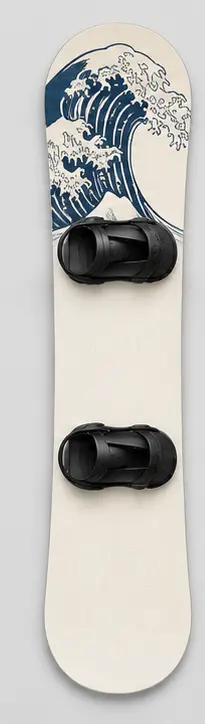
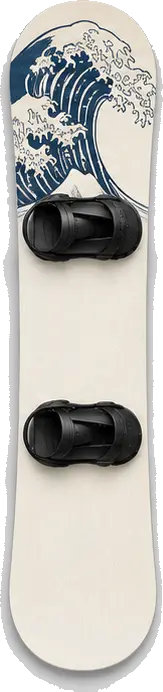
Line Series page: range boards cut out to their own shape, picked board shown in 3D
Claude-Session: https://claude.ai/code/session_01RpmJnSPrc6hx8ABvC13Bj4

diff --git a/public/concepts/line/index.html b/public/concepts/line/index.html
@@ -93,7 +93,7 @@
   .head { display: grid; grid-template-columns: 1fr 1fr; gap: 24px 64px; align-items: end; margin-bottom: clamp(40px, 5vw, 64px); }
   .head p.lede { margin: 0; color: var(--mute); font-size: 18px; max-width: 44ch; }
   @media (max-width: 860px) { .head { grid-template-columns: 1fr; } }
-  .wall { background: var(--wall); border-radius: 28px; padding: clamp(24px, 3vw, 40px) clamp(12px, 2vw, 28px) 20px; overflow-x: auto; scrollbar-width: none; transition: background .6s; }
+  .wall { background: var(--card); border-radius: 28px; padding: clamp(24px, 3vw, 40px) clamp(12px, 2vw, 28px) 20px; overflow-x: auto; scrollbar-width: none; transition: background .6s; }
   .wall::-webkit-scrollbar { display: none; }
   .rack { display: grid; grid-template-columns: repeat(10, minmax(96px, 1fr)); gap: clamp(8px, 1.2vw, 18px); min-width: 960px; }
   .board { display: grid; justify-items: center; gap: 14px; }
@@ -102,7 +102,10 @@
   .board:hover img, .board.on img { transform: translateY(-14px); filter: drop-shadow(0 18px 18px rgba(0,0,0,.18)); }
   .board.on .n { color: var(--text); } .board.on .n::before { content: ""; display: inline-block; width: 6px; height: 6px; border-radius: 50%; background: var(--run); margin-right: 8px; vertical-align: 2px; }
   .detail { display: grid; grid-template-columns: 300px 1fr; gap: clamp(24px, 5vw, 80px); align-items: center; margin-top: 12px; padding: clamp(28px, 4vw, 56px); border-radius: 28px; background: var(--card); transition: background .6s; }
-  .detail .big { background: #dcdbdb; border-radius: 20px; display: grid; place-items: center; padding: 24px 0; }
+  .detail .big { background: var(--paper2); border-radius: 20px; display: grid; place-items: center; padding: 24px 0; position: relative; overflow: hidden; min-height: min(620px, 78vh); touch-action: pan-y; transition: background .6s; }
+  .detail .big canvas { position: absolute; inset: 0; width: 100% !important; height: 100% !important; cursor: grab; }
+  .detail .big.gl img { visibility: hidden; }
+  .detail .big .hint3d { position: absolute; left: 16px; bottom: 12px; margin: 0; color: var(--mute); z-index: 2; display: none; } .detail .big.gl .hint3d { display: block; }
   .detail .big img { height: min(560px, 70vh); width: auto; display: block; transition: opacity .35s, transform .7s var(--out); }
   .detail .big img.swap { opacity: 0; transform: translateY(10px); }
   .detail h3 { margin: 10px 0 0; font: 500 clamp(32px, 4vw, 56px)/1 "Geist", sans-serif; letter-spacing: -.035em; }
@@ -204,7 +207,7 @@
       </div>
       <div class="wall rv" role="listbox" aria-label="Choose a board" id="wall"><div class="rack" id="rack"></div></div>
       <div class="detail rv" aria-live="polite">
-        <div class="big"><img id="bigImg" src="boards/21-woodblock-dragon.webp" alt="" /></div>
+        <div class="big" id="big3d"><p class="hint3d mono">Drag to turn</p><img id="bigImg" src="boards/21-woodblock-dragon.webp" alt="" /></div>
         <div>
           <p class="label mono" id="dN">No. 21</p>
           <h3 id="dH">Woodblock Dragon</h3>
@@ -342,14 +345,14 @@ window.RUN = (() => {
   const dN = document.getElementById("dN"), dH = document.getElementById("dH"), dP = document.getElementById("dP"), dInk = document.getElementById("dInk"), dFin = document.getElementById("dFin"), dFeel = document.getElementById("dFeel");
   B.forEach(([n, f, name], i) => {
     const b = document.createElement("button"); b.className = "board"; b.setAttribute("role", "option"); b.dataset.i = i;
-    b.innerHTML = `<img src="boards/${n}-${f}.webp" alt="" width="205" height="724" loading="lazy"><span class="n mono">${n}</span><span class="sr" style="position:absolute;left:-9999px">${name}</span>`;
+    b.innerHTML = `<img src="boards/${n}-${f}.webp" alt="" width="165" height="692" loading="lazy"><span class="n mono">${n}</span><span class="sr" style="position:absolute;left:-9999px">${name}</span>`;
     b.addEventListener("click", () => pick(i)); rack.appendChild(b);
   });
   let cur = 0;
   function pick(i, scroll) {
     cur = (i + B.length) % B.length; const [n, f, name, desc, ink, fin, feel] = B[cur];
     [...rack.children].forEach((el, k) => { el.classList.toggle("on", k === cur); el.setAttribute("aria-selected", k === cur); });
-    const set = () => { big.src = `boards/${n}-${f}.webp`; big.alt = `${name} snowboard, seen from above.`; big.classList.remove("swap"); };
+    const set = () => { big.src = `boards/${n}-${f}.webp`; window.dispatchEvent(new CustomEvent("board-pick", { detail: big.src })); big.alt = `${name} snowboard, seen from above.`; big.classList.remove("swap"); };
     if (reduce) set(); else { big.classList.add("swap"); setTimeout(set, 220); }
     dN.textContent = `No. ${n}`; dH.textContent = name; dP.textContent = desc; dInk.textContent = ink; dFin.textContent = fin; dFeel.textContent = feel;
     if (scroll) rack.children[cur].scrollIntoView({ behavior: reduce ? "auto" : "smooth", block: "nearest", inline: "center" });
@@ -571,6 +574,42 @@ function frame(now) {
   r.render(scene, cam);
 }
 r.compile(scene, cam); requestAnimationFrame(frame);
+
+/* the range: whichever board is picked, as a 3D board */
+(() => {
+  const box = document.getElementById("big3d"); if (!box) return;
+  const rr = new THREE.WebGLRenderer({ antialias: true, alpha: true }); rr.setPixelRatio(Math.min(devicePixelRatio, 2)); rr.outputColorSpace = THREE.SRGBColorSpace;
+  box.appendChild(rr.domElement); box.classList.add("gl");
+  const sc = new THREE.Scene(); sc.add(new THREE.HemisphereLight(0xffffff, 0xb8b0a0, 1.6));
+  const k1 = new THREE.DirectionalLight(0xffffff, 1.5); k1.position.set(-300, 500, 700); sc.add(k1);
+  const k2 = new THREE.DirectionalLight(0xffffff, .6); k2.position.set(400, -100, -500); sc.add(k2);
+  const BW = 165, BL = 692, rise = (v) => { const tip = Math.max(0, (.12 - v) / .12), tail = Math.max(0, (v - .88) / .12); return 34 * (tip * tip + tail * tail) + 3.5 * Math.sin(Math.PI * v); };
+  const sheet = (z, flip) => { const g = new THREE.PlaneGeometry(BW, BL, 16, 180); if (flip) g.rotateY(Math.PI); const p = g.attributes.position; for (let i = 0; i < p.count; i++) p.setZ(i, z + rise(.5 - p.getY(i) / BL)); g.computeVertexNormals(); return g; };
+  const topM = new THREE.MeshStandardMaterial({ transparent: true, alphaTest: .5, roughness: .55, metalness: 0 });
+  const baseM = new THREE.MeshStandardMaterial({ transparent: true, alphaTest: .5, roughness: .35, metalness: 0 });
+  const bd = new THREE.Group(); bd.add(new THREE.Mesh(sheet(1.4), topM), new THREE.Mesh(sheet(-1.4, true), baseM)); sc.add(bd);
+  // the base: the board's own silhouette in dark ink with two thin lines, like The Run
+  const baseTex = (img) => { const c = document.createElement("canvas"); c.width = img.width; c.height = img.height; const x = c.getContext("2d");
+    x.drawImage(img, 0, 0); x.globalCompositeOperation = "source-in"; x.fillStyle = "#181c1f"; x.fillRect(0, 0, c.width, c.height);
+    x.globalCompositeOperation = "source-atop"; x.fillStyle = "#c9c2b2"; const w = 2, gap = 9; x.fillRect(c.width / 2 - gap / 2 - w, c.height * .05, w, c.height * .9); x.fillRect(c.width / 2 + gap / 2, c.height * .05, w, c.height * .9);
+    const t = new THREE.CanvasTexture(c); t.colorSpace = THREE.SRGBColorSpace; return t; };
+  const ld = new THREE.TextureLoader(), cache = {};
+  const load = (src) => { if (cache[src]) { [topM.map, baseM.map] = cache[src]; topM.needsUpdate = baseM.needsUpdate = true; return; }
+    ld.load(src, (t) => { t.colorSpace = THREE.SRGBColorSpace; t.anisotropy = 8; cache[src] = [t, baseTex(t.image)]; load(src); }); };
+  load(document.getElementById("bigImg").src);
+  addEventListener("board-pick", (e) => { load(e.detail); spin = 0; });
+  const cm = new THREE.PerspectiveCamera(26, 1, 10, 5000);
+  const fit = () => { const w = box.clientWidth, h = box.clientHeight; rr.setSize(w, h, false); cm.aspect = w / h; const half = Math.tan(THREE.MathUtils.degToRad(13)); cm.position.set(0, 0, Math.max(BL / (.84 * 2 * half), BW * 1.6 / (2 * half * cm.aspect))); cm.lookAt(0, 0, 0); cm.updateProjectionMatrix(); };
+  addEventListener("resize", fit); fit();
+  let spin = 0, vel = 0, drag = false, x0 = 0, seen = false, prev = performance.now();
+  box.addEventListener("pointerdown", (e) => { drag = true; x0 = e.clientX; vel = 0; });
+  addEventListener("pointermove", (e) => { if (!drag) return; const dx = e.clientX - x0; x0 = e.clientX; vel = dx * .01; spin += vel; });
+  addEventListener("pointerup", () => drag = false); addEventListener("pointercancel", () => drag = false);
+  new IntersectionObserver(([e]) => seen = e.isIntersecting).observe(box);
+  (function tick(now) { requestAnimationFrame(tick); const dt = Math.min(.05, (now - prev) / 1000); prev = now; if (!seen) return;
+    if (!drag) { vel *= .93; spin += vel + (reduce ? 0 : dt * .5); }
+    bd.rotation.set(-.12, spin, -.06); bd.position.y = reduce ? 0 : Math.sin(now / 1500) * 6; rr.render(sc, cm); })(prev);
+})();
 window.dispatchEvent(new Event("run-ready"));
 </script>
 </body>
